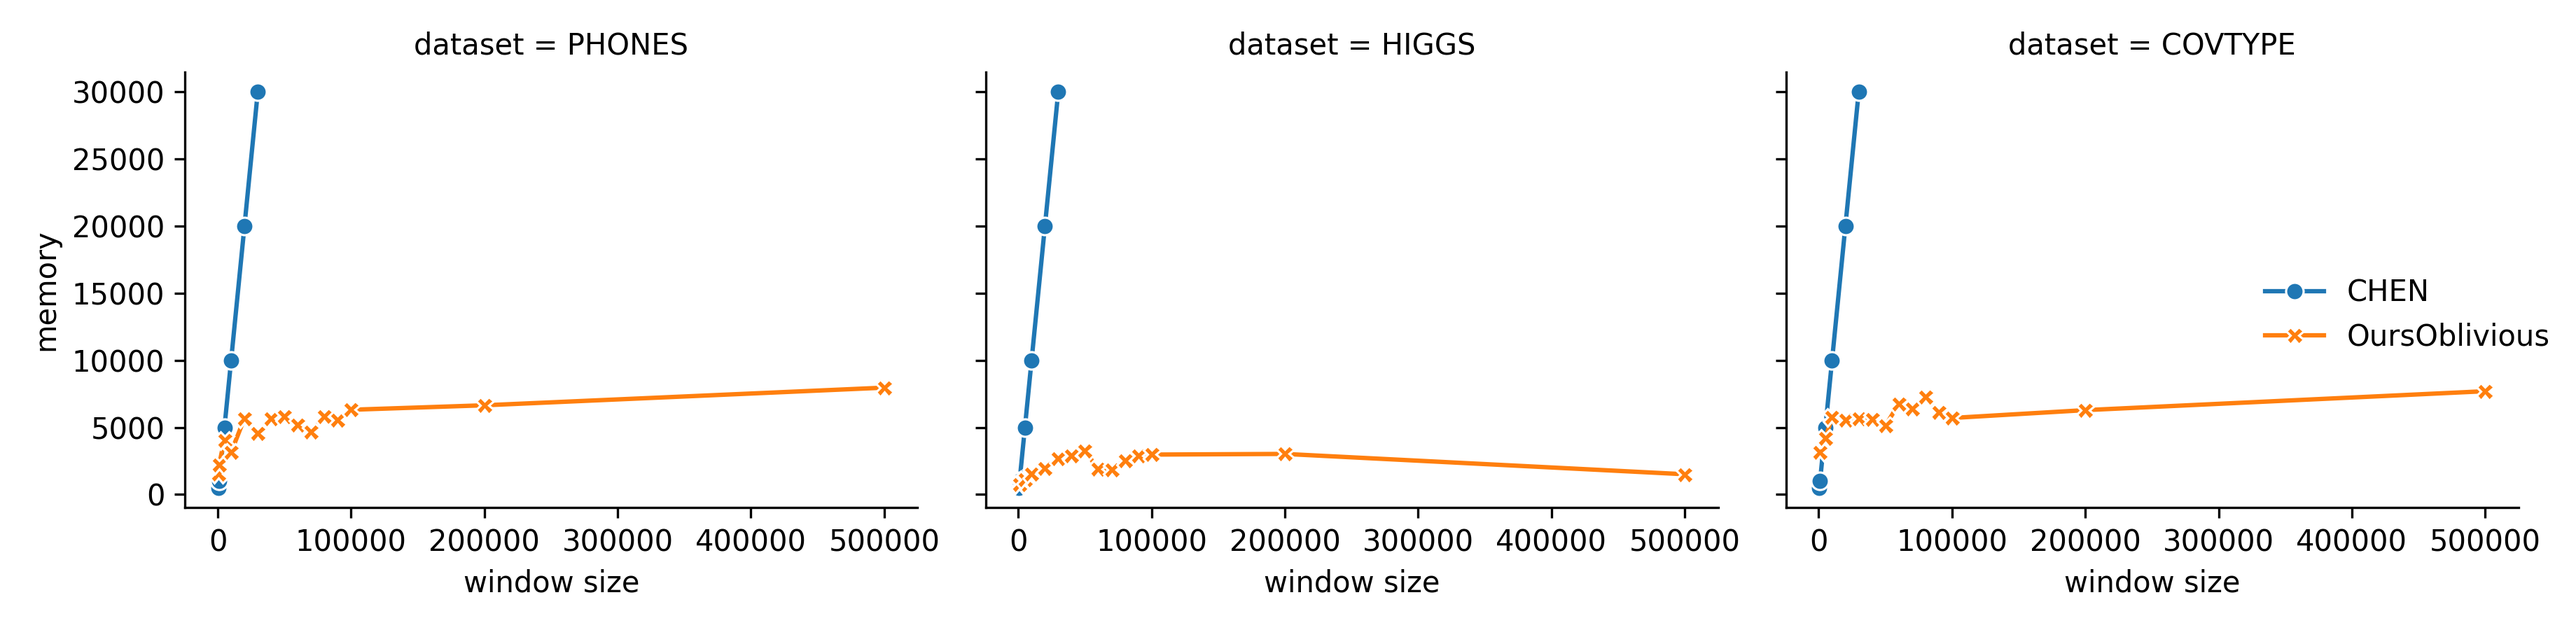
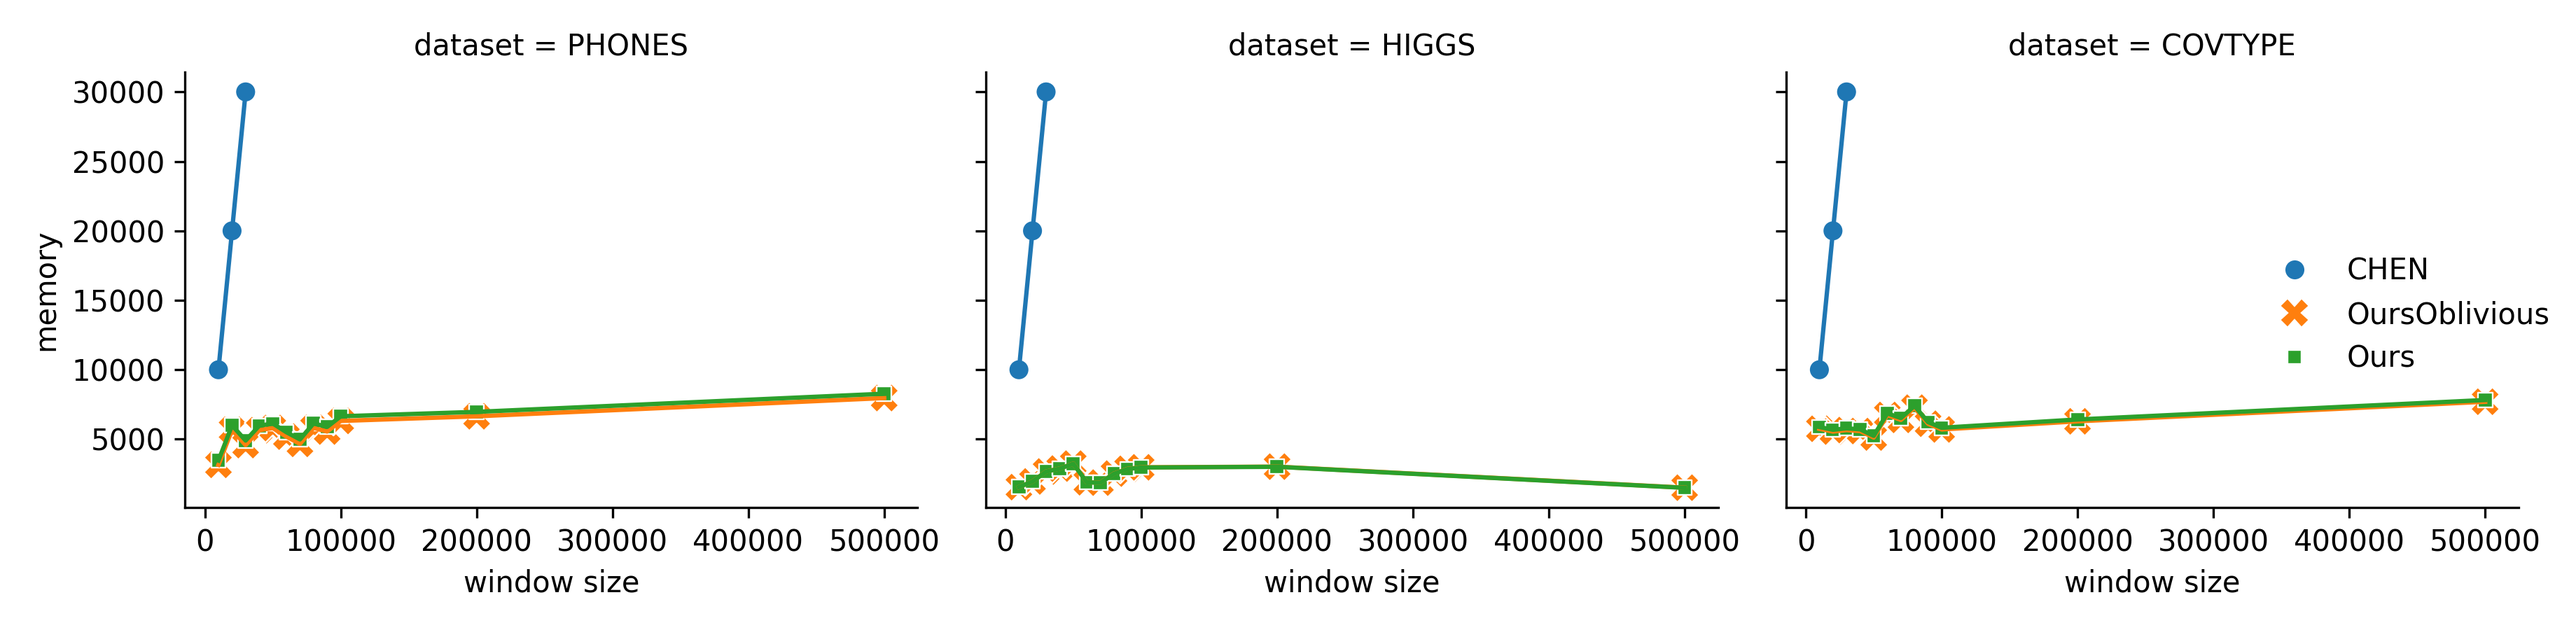
update wlines plots

diff --git a/results/wsize_lines.py b/results/wsize_lines.py
@@ -1,3 +1,4 @@
+import numpy as np
 from icecream import ic
 import seaborn as sns
 import polars as pl
@@ -73,13 +74,17 @@ def filter(df):
         pl.col("algorithm").str.extract(r"DELTA(\d+)").cast(pl.Float64).alias("delta") / 10
     )
     df = df.with_columns(
-        pl.col("algorithm").str.replace(r"PELLCAPPDELTA(\d+)", "OursOblivious")
+        pl.col("algorithm").str.replace(r"PELLCAPPDELTA(\d+)", "OursOblivious"),
+    ).with_columns(
+        pl.col("algorithm").str.replace(r"CAPPDELTA(\d+)", "Ours")
+    ).filter(
+        pl.col("algorithm").is_in(["CHEN", "Ours", "OursOblivious"])
     )
     # df = df.filter(pl.col("wsize").is_in([10000, 50000, 500000]))
     df = df.with_columns(
         ( pl.col("update") / 1e6 ).alias("update"),
         ( pl.col("query") / 1e6 ).alias("query")
-    )
+    ).filter(pl.col("wsize") >= 10000)
     return df
 
 
@@ -135,9 +140,19 @@ def read_and_plot_bar(output_file_path):
             x="wsize",  # x axis
             y=graph,  # y axis
             hue="algorithm",  # color
+            # style="algorithm",
+            # markers=True,
+            # dashes=False,
+        )
+        g.map_dataframe(
+            sns.scatterplot,  # barplot or lineplot
+            x="wsize",  # x axis
+            y=graph,  # y axis
+            hue="algorithm",  # color
+            size="algorithm",
             style="algorithm",
-            markers=True,
-            dashes=False,
+            sizes=list( np.array([1, 1, 2]) * 50 ),
+            size_order=["CHEN", "Ours", "OursOblivious"],
         )
         g.set_xlabels("window size")
         g.add_legend()
